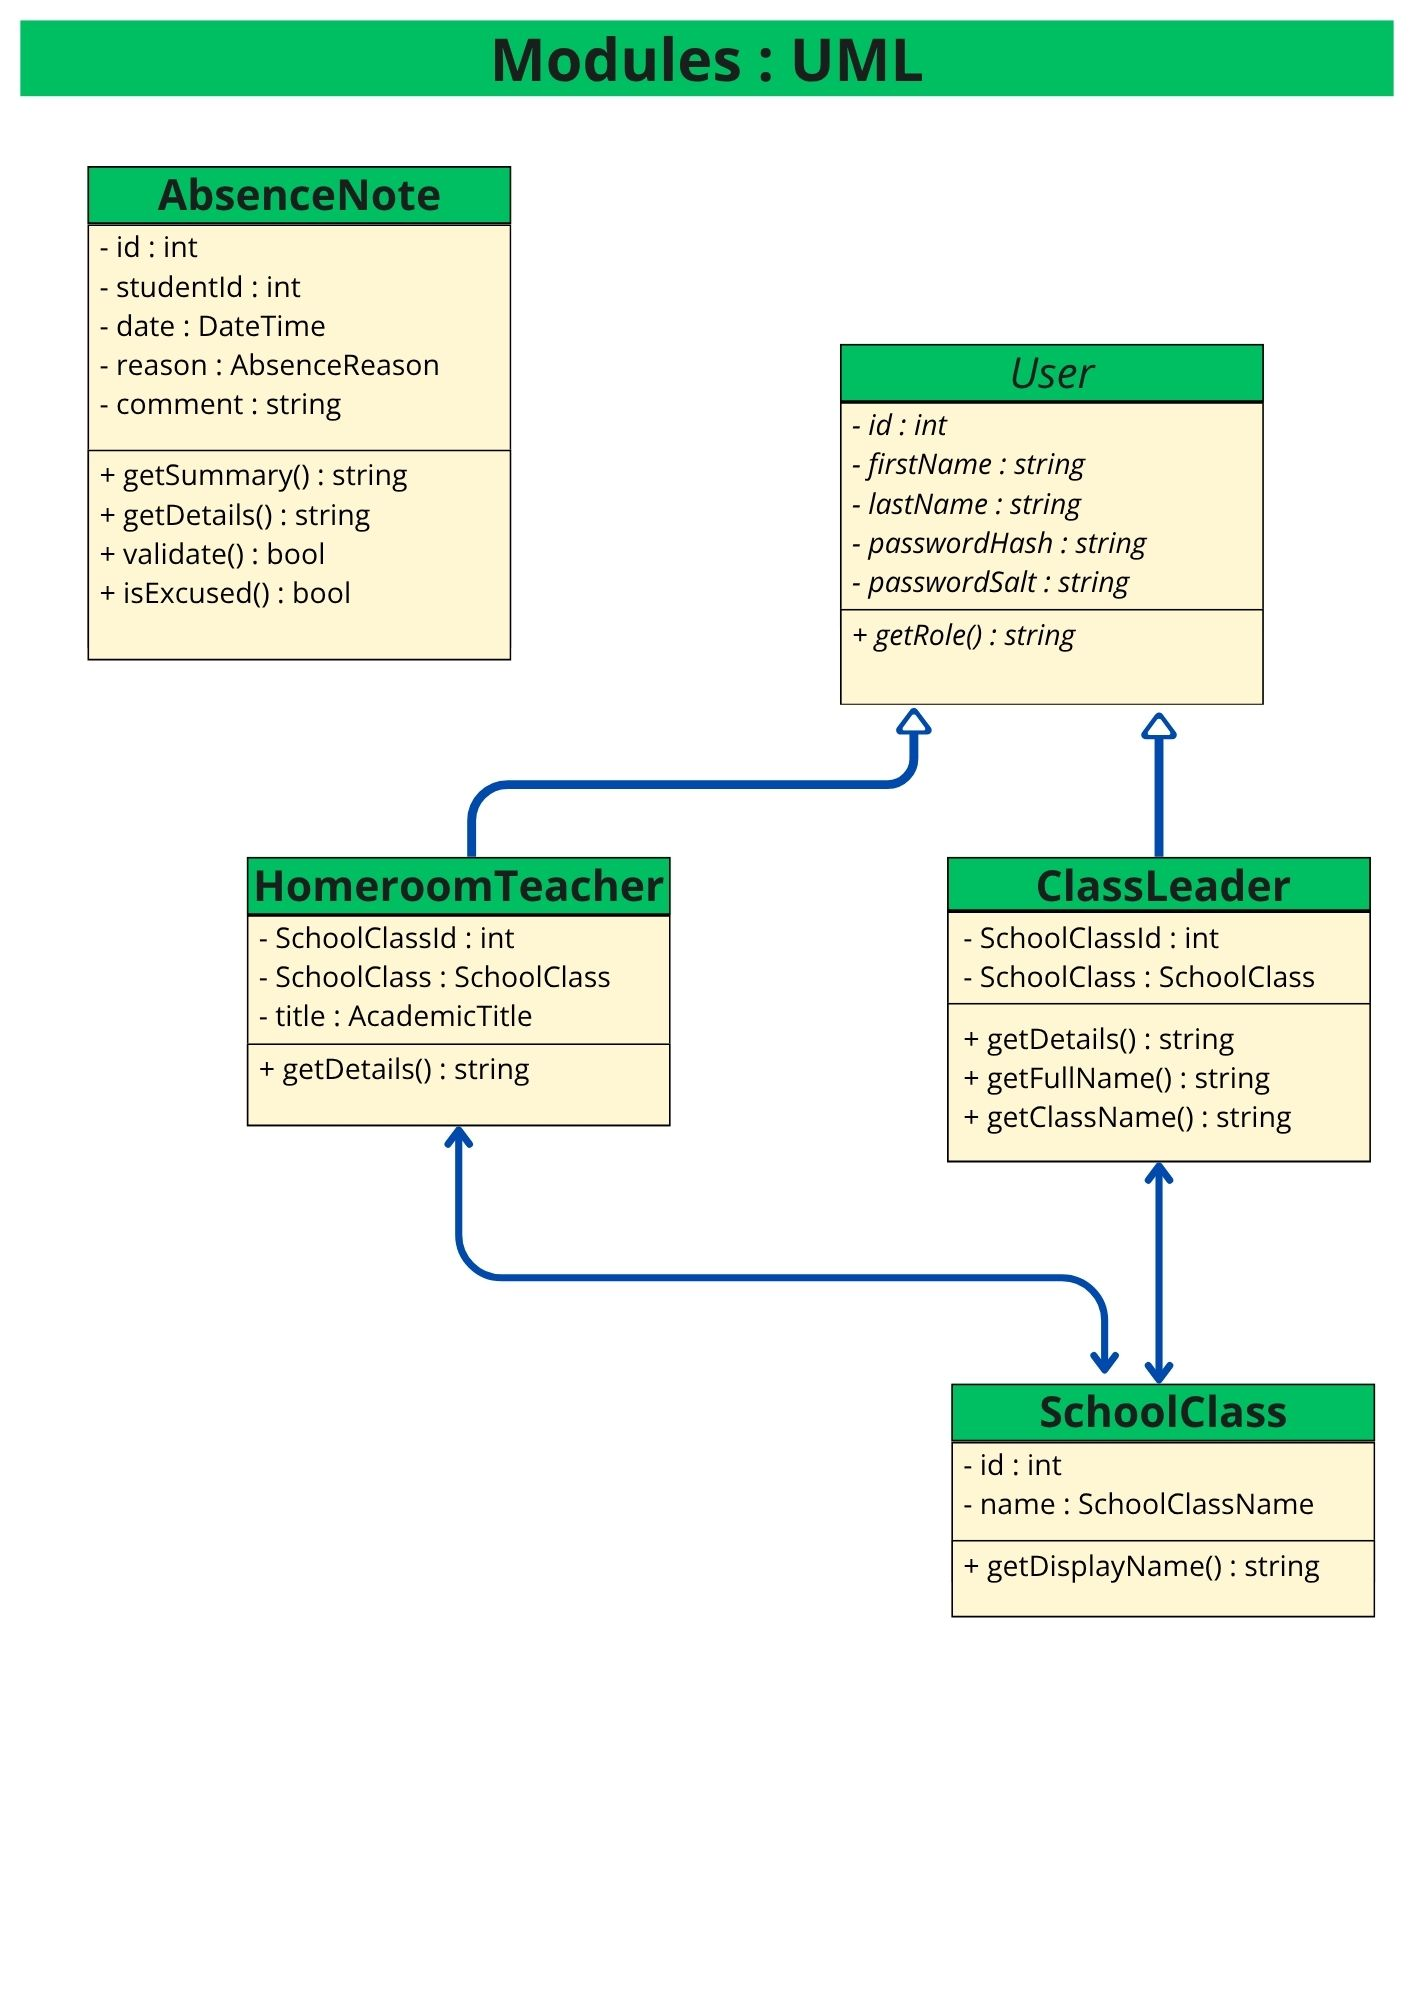
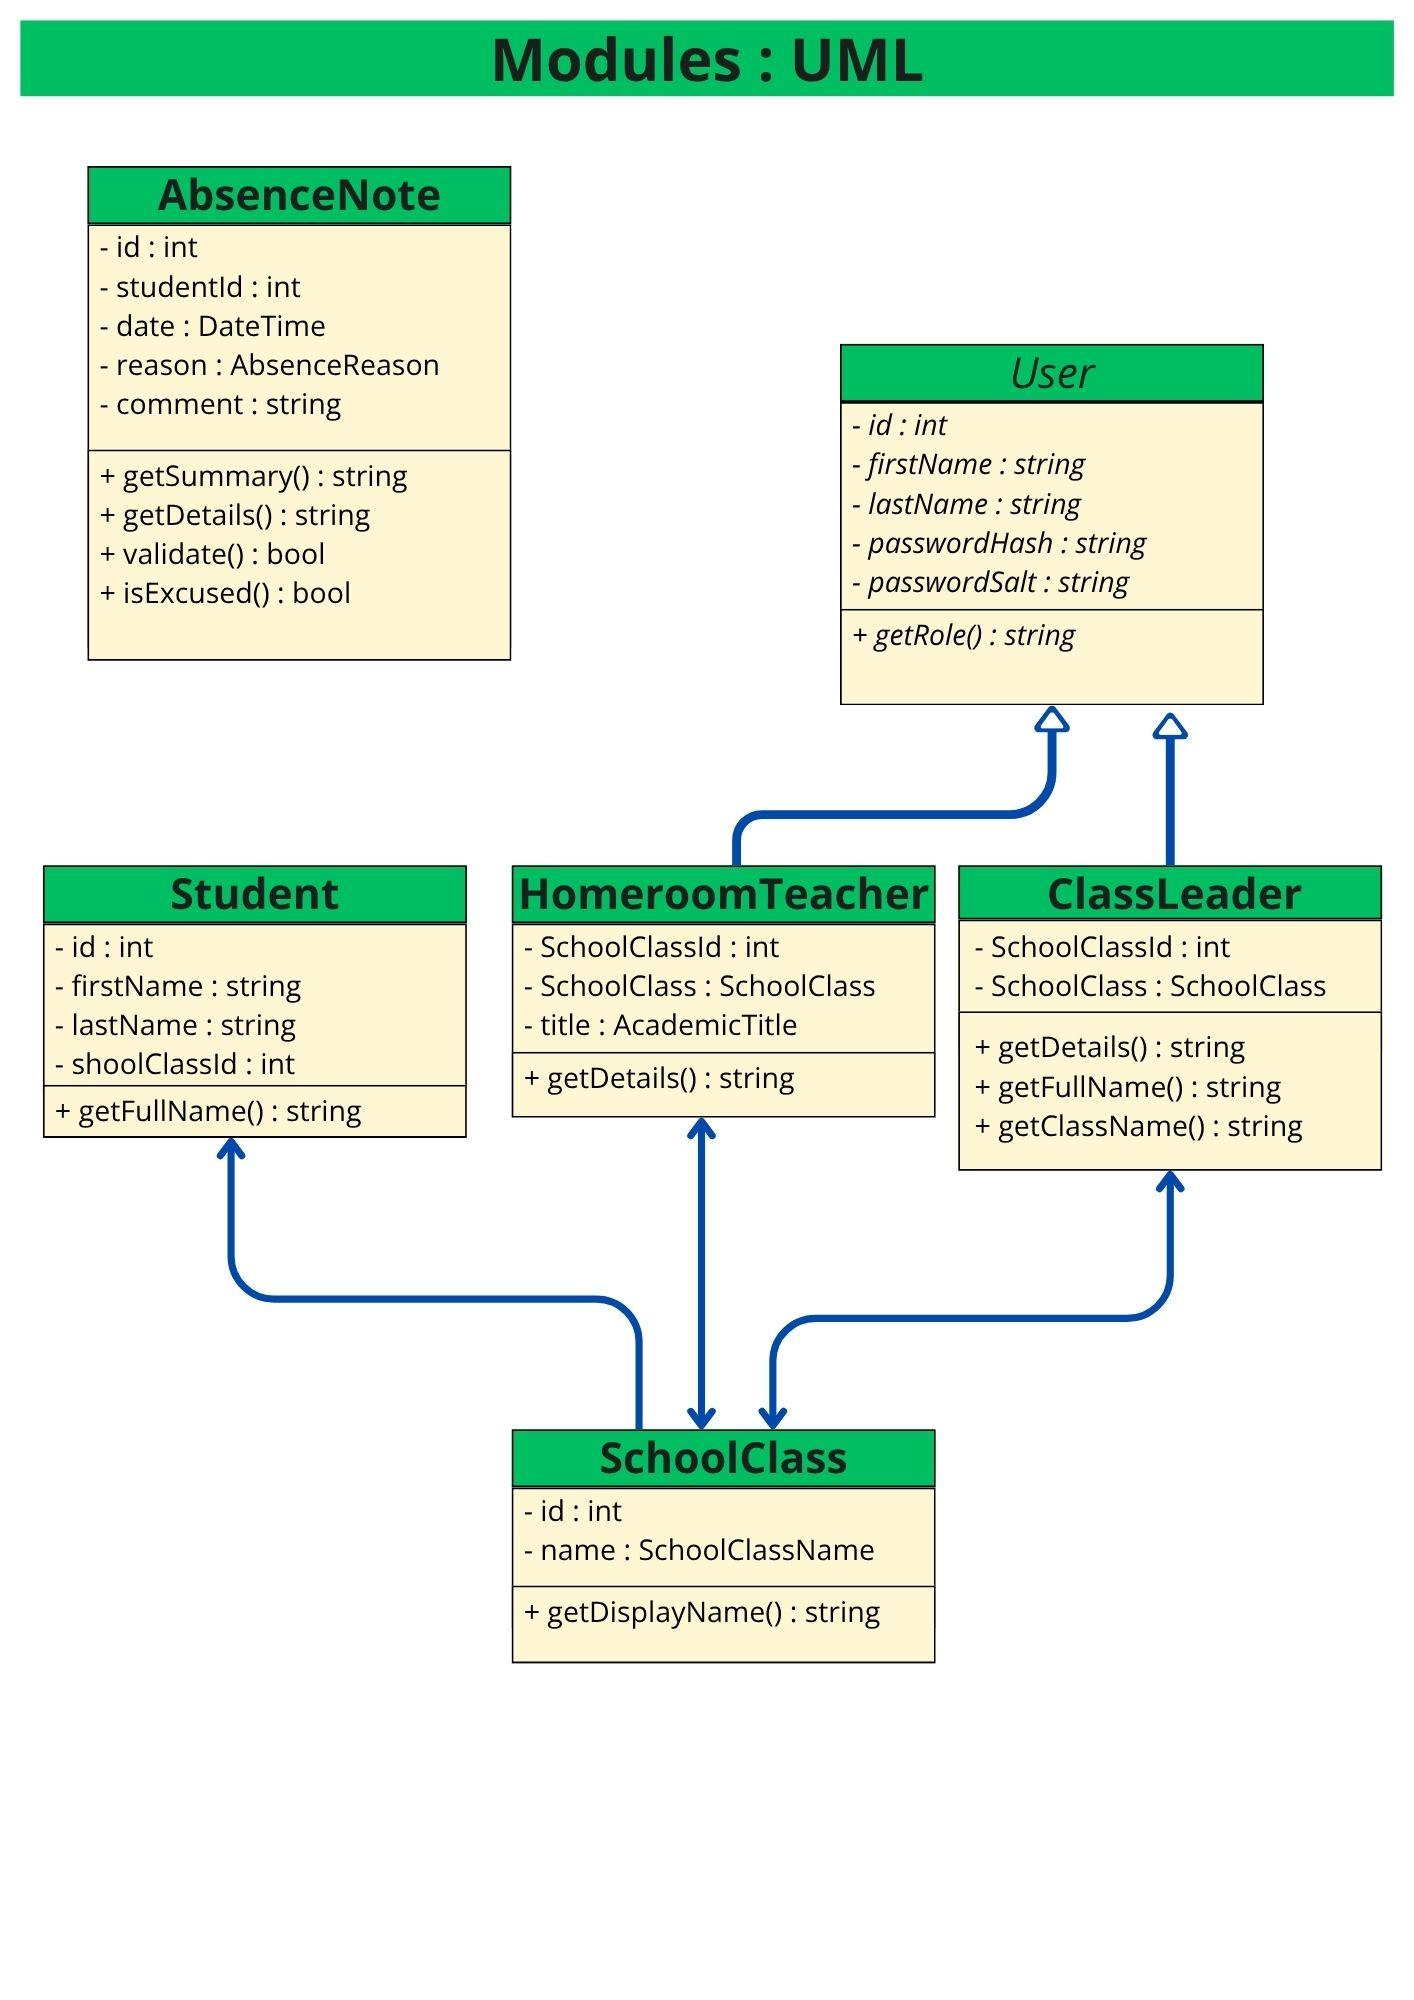
Add Schema UML, update Modules UML, add Repository UML and ERD

Changed region(s): [[0.0311, 0.341, 0.9958, 0.837], [0.0934, 0.217, 0.1245, 0.248]]

diff --git a/README.md b/README.md
@@ -44,15 +44,25 @@ SchoolAttendanceManager/
 |   |   ├── appsettings.json
 |   |   ├── log.txt
 |   |   └── Programm.cs
-|   ├── SAM.Infrastructure
+|   ├── SAM.Core
+|   |   ├── Repository/
+|   |   ├── Schema/
+|   |   ├── Services/
+|   |   └── Modules/
 |   └── SAM.WinForms
 ├─── database/
 |   ├── schema.sql
 |   └── seed.sql
 ├── README.md
 ├── TASKS.md
-└── .gitignore
+└── .git
 ```
+
+## Dependencies
+
+This project uses the following NuGet packages:
+
+- 
 
 ##  License
 

diff --git a/TASKS.md b/TASKS.md
@@ -19,8 +19,10 @@
 - [ ] README.md
 - [ ] dock
 - [ ] Core
+- [ ] repository uml
 
 ## Done
 
 - [x] local repository
 - [x] modules-uml
+- [x] ERD
